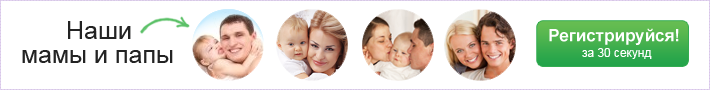
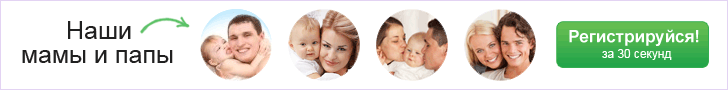
шапка фиксы

Changed region(s): [[0.031, 0.1111, 0.9915, 0.9111], [0.8056, 0.5333, 0.9296, 0.6667], [0.3099, 0.0889, 0.3408, 0.1111]]

diff --git a/site/frontend/www/stylesheets/common.css b/site/frontend/www/stylesheets/common.css
@@ -662,6 +662,7 @@ a:hover {text-decoration:none;}
 
 #header-new {margin-bottom:20px;position:relative;z-index:4;}
 #header-new .header-in {background:url(/images/bg_header.gif) no-repeat;}
+#header-new.guest .header-in {background-image:url(/images/bg_header_guest.gif);}
 #header-new .top-line {background:#a17dc4;border-bottom:1px solid #fff;position:relative;z-index:6;}
 
 #header-new .top-line .fast-links {list-style:none;font:normal 11px/14px tahoma, arial, helvetica, sans-serif;padding:8px 20px 6px 20px;height:16px;}
@@ -752,10 +753,13 @@ a:hover {text-decoration:none;}
 #header-new .search-box .fast-actions .find-friend i {display:block;width:27px;height:27px;background:url(/images/common.png) no-repeat -264px -243px;position:absolute;left:0;top:0;}
 #header-new .search-box .fast-actions .find-friend:hover {color:#599af4;}
 
+#header-new.guest .logo-box {width:250px;margin-right:3px;}
+
 #header-new .logo-box {width:280px;float:left;text-align:center;color:#8d5bbc;text-transform:uppercase;font-size:9px;letter-spacing:3px;line-height:25px;padding-top:20px;}
 #header-new .logo-box a.logo {display:block;width:198px;height:93px;background:url(../images/common.png) no-repeat 0 -200px;text-indent:-9999px;margin:0 auto;}
 
-#header-new .banner-box {width:360px;float:left;padding-top:36px;text-align:center;margin-left:-10px;}
+#header-new .banner-box {width:360px;float:left;padding-top:30px;text-align:center;}
+
 
 #header-new .nav {padding:7px 0 0 18px;height:37px;position:relative;z-index:5;line-height:normal;}
 #header-new .nav ul {list-style:none;}

diff --git a/site/frontend/www/html/layout_unloginned.html b/site/frontend/www/html/layout_unloginned.html
@@ -20,7 +20,7 @@
 	
 	<div id="layout" class="wrapper">
 	
-		<div id="header-new" class="clearfix">
+		<div id="header-new" class="clearfix guest">
 			
 			<div class="top-line clearfix">
 				
@@ -46,7 +46,7 @@
 						<span>САЙТ ДЛЯ ВСЕЙ СЕМЬИ</span>
 					</div>
 					
-					<div class="banner-box" style="margin-left:-10px;">
+					<div class="banner-box">
 						<a href=""><img src="/images/banner_06.png" /></a>
 					</div>
 					

diff --git a/site/frontend/www/html/layout.html b/site/frontend/www/html/layout.html
@@ -223,7 +223,7 @@
 				<div class="nav">
 					<ul class="clearfix">
 						<li class="morning">
-							s
+							<a href=""><i class="text"></i></a>
 						</li>
 						<li class="kids navdrp">
 							<a href="javascript:void(0);" onclick="navDrpOpen(this);"><i class="text"></i></a>
